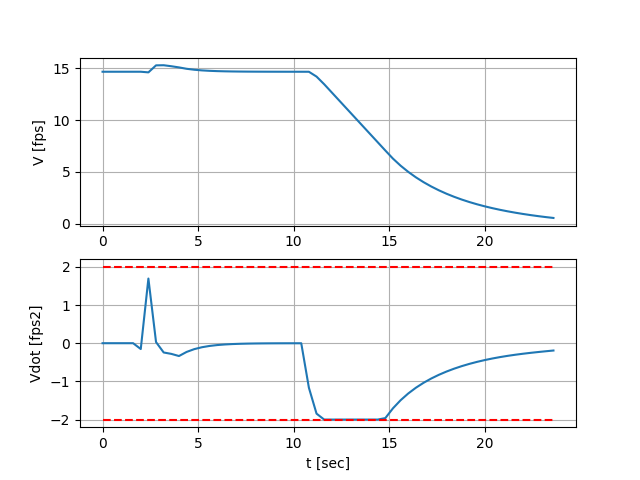
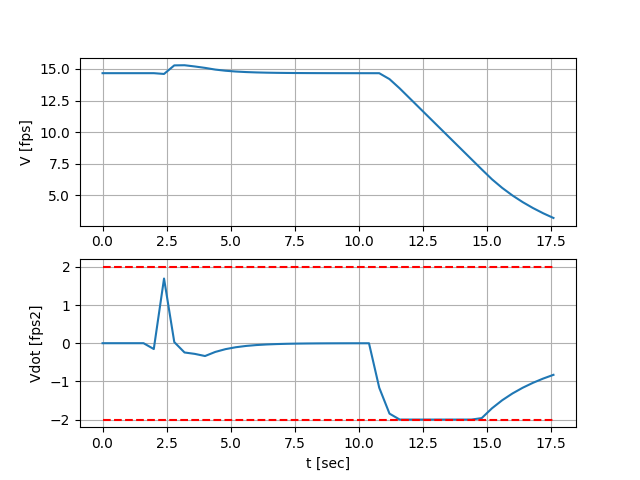
made a correction in the plotting function

diff --git a/printPlots.py b/printPlots.py
@@ -13,7 +13,7 @@ from utils import *
 # *X, *Y = E [ft], N [ft], theta [rad] (theta is w.r.t +E axis)
 
 
-def nmpcPlotSol(u_new,path,drawLPPath,x0,obstacle,pathType):
+def nmpcPlotSol(u_new,path,x0,obstacle,pathType):
 
     u_mpciter = u_new.flatten(1)
     x_mpciter = probInfo.computeOpenloopSolution(u_mpciter, pdata.N, pdata.T, pdata.t0, x0)
@@ -29,69 +29,67 @@ def nmpcPlotSol(u_new,path,drawLPPath,x0,obstacle,pathType):
     plt.xlabel('E [ft]')
     #plt.axis('equal')
 
-    if drawLPPath == True:
+    # Detailed Path
+    plt.plot(path.pathData.E, path.pathData.N, linestyle='--', color='c')
 
-        # Detailed Path
-        plt.plot(path.pathData.E, path.pathData.N, linestyle='--', color='c')
+    plt.plot(path.pathData.PathStartPoint[0], path.pathData.PathStartPoint[1], marker='o', markersize=8, color='r')
+    plt.plot(path.pathData.PathEndPoint[0], path.pathData.PathEndPoint[1], marker='o', markersize=8, color='g')
 
-        plt.plot(path.pathData.PathStartPoint[0], path.pathData.PathStartPoint[1], marker='o', markersize=8, color='r')
-        plt.plot(path.pathData.PathEndPoint[0], path.pathData.PathEndPoint[1], marker='o', markersize=8, color='g')
+    if False:
+        plt.plot(path.pathData.PathRightEndPointsE, path.pathData.PathRightEndPointsN,'m+')
+        plt.plot(path.pathData.PathLeftEndPointsE, path.pathData.PathLeftEndPointsN,'m+')
 
-        if False:
-            plt.plot(path.pathData.PathRightEndPointsE, path.pathData.PathRightEndPointsN,'m+')
-            plt.plot(path.pathData.PathLeftEndPointsE, path.pathData.PathLeftEndPointsN,'m+')
+        x1 = path.pathData.PathRightEndPointsE
+        x2 = path.pathData.PathLeftEndPointsE
+        y1 = path.pathData.PathRightEndPointsN
+        y2 = path.pathData.PathLeftEndPointsN
 
-            x1 = path.pathData.PathRightEndPointsE
-            x2 = path.pathData.PathLeftEndPointsE
-            y1 = path.pathData.PathRightEndPointsN
-            y2 = path.pathData.PathLeftEndPointsN
+        if pathType == 'default':
+            plt.plot(x1, y1, 'm', x2, y2, 'm')
+        else:
+            #plt.plot(x1, y1, 'g', x2, y2, 'g--')
+            plt.plot(x1, y1, 'm', x2, y2, 'm')
 
-            if pathType == 'default':
-                plt.plot(x1, y1, 'm', x2, y2, 'm')
-            else:
-                #plt.plot(x1, y1, 'g', x2, y2, 'g--')
-                plt.plot(x1, y1, 'm', x2, y2, 'm')
+        x3 = path.pathData.PathCenterEndPointsE + pdata.delta_yRoad*np.sin(path.pathData.Theta_endpoints)
+        x4 = path.pathData.PathCenterEndPointsE - pdata.delta_yRoad*np.sin(path.pathData.Theta_endpoints)
+        y3 = path.pathData.PathCenterEndPointsN - pdata.delta_yRoad*np.cos(path.pathData.Theta_endpoints)
+        y4 = path.pathData.PathCenterEndPointsN + pdata.delta_yRoad*np.cos(path.pathData.Theta_endpoints)
 
-            x3 = path.pathData.PathCenterEndPointsE + pdata.delta_yRoad*np.sin(path.pathData.Theta_endpoints)
-            x4 = path.pathData.PathCenterEndPointsE - pdata.delta_yRoad*np.sin(path.pathData.Theta_endpoints)
-            y3 = path.pathData.PathCenterEndPointsN - pdata.delta_yRoad*np.cos(path.pathData.Theta_endpoints)
-            y4 = path.pathData.PathCenterEndPointsN + pdata.delta_yRoad*np.cos(path.pathData.Theta_endpoints)
+        if pathType == 'default':
+            plt.plot(x3, y3, 'r', x4, y4, 'r')
+        else:
+            #plt.plot(x3, y3, 'k', x4, y4, 'k--')
+            plt.plot(x3, y3, 'r', x4, y4, 'r')
 
-            if pathType == 'default':
-                plt.plot(x3, y3, 'r', x4, y4, 'r')
-            else:
-                #plt.plot(x3, y3, 'k', x4, y4, 'k--')
-                plt.plot(x3, y3, 'r', x4, y4, 'r')
+    plt.grid(True)
 
-        plt.grid(True)
+    if True: # obstacle is present:
 
-        if True: # obstacle is present:
+        nObs = obstacle.E.size
 
-            nObs = obstacle.E.size
+        if nObs > 0:
+            for k in range(nObs):
 
-            if nObs > 0:
-                for k in range(nObs):
-
-                    Efc = obstacle.E[k] + pdata.pathWidth/2
-                    Nfc = obstacle.N[k]
-                    W = obstacle.w[k] - pdata.pathWidth
-                    L = obstacle.l[k]
-                    Theta = obstacle.Chi[k]
-                    fc = "red"
-                    polygon_obstacle = getPatch(Efc, Nfc, W, L, Theta, fc)
+                Efc = obstacle.E[k] + pdata.pathWidth/2
+                Nfc = obstacle.N[k]
+                W = obstacle.w[k] - pdata.pathWidth
+                L = obstacle.l[k]
+                Theta = obstacle.Chi[k]
+                fc = "red"
+                polygon_obstacle = getPatch(Efc, Nfc, W, L, Theta, fc)
 
 
-                    Efc = obstacle.E[k]
-                    Nfc = obstacle.N[k]
-                    W = obstacle.w[k]
-                    L = obstacle.l[k]
-                    Theta = obstacle.Chi[k]
-                    fc = "green"
-                    polygon_safezone = getPatch(Efc, Nfc, W, L, Theta, fc)
+                Efc = obstacle.E[k]
+                Nfc = obstacle.N[k]
+                W = obstacle.w[k]
+                L = obstacle.l[k]
+                Theta = obstacle.Chi[k]
+                fc = "green"
+                polygon_safezone = getPatch(Efc, Nfc, W, L, Theta, fc)
 
-                    ax = plt.gca()
-                    ax.add_patch(polygon_safezone)
-                    ax.add_patch(polygon_obstacle)
+                ax = plt.gca()
+                ax.add_patch(polygon_safezone)
+                ax.add_patch(polygon_obstacle)
 
     nEN = len(East)
     plt.plot(East[0:nEN], North[0:nEN], marker='x', markersize=4, color='b')
@@ -130,17 +128,14 @@ def nmpcPlot(t,x,u,path,obstacle,tElapsed,V_terminal,latAccel,delChi,settingsFil
     useLatAccelCons = 1
 
     # find time instance where V starts decreasing to 0
+    t_index = len(t)
     for k in range(t.size):
         if np.abs(t_slowDown - t[k]) < 1e-3:
             t_index = k
             break
 
-    if t_index > 0:
-        t1 = t[0:t_index]
-        t2 = t[t_index:None]
-    else:
-        t1 = t
-        t2 = np.array([])
+    t1 = t[0:t_index]
+    t2 = t[t_index:None]
 
     if ns == 4:
         lb_VdotVal = np.array(cols[4]).astype(np.float)

diff --git a/Main.py b/Main.py
@@ -44,6 +44,7 @@ u_new = np.zeros([1,nu])
 mpciter = 0
 
 # Other parameters
+t_slowDown = []
 t_slowDown_detected = False
 
 # Print to File
@@ -67,7 +68,6 @@ posIdx = getPosIdx(x0[0], x0[1], path, posIdx0)
 # Specify Booleans
 saveData = True
 plotData = True
-drawLPPath = True
 
 # Create array of paths
 pathObj = makePathObj(pdata, path, obstacle)
@@ -88,8 +88,7 @@ while mpciter < mpciterations:
     tElapsed[mpciter] = (time.time() - tStart)
 
     # mpc  future path plot
-    VTerminal[mpciter] = printPlots.nmpcPlotSol(u_new, path, drawLPPath, x0, obstacle, pathType)
-    drawLPPath = False
+    VTerminal[mpciter] = printPlots.nmpcPlotSol(u_new, path, x0, obstacle, pathType)
 
     # solution information
     latAccel[mpciter], delChi[mpciter] = printPlots.nmpcPrint(mpciter, info, N, x0, u_new, writeToFile,
